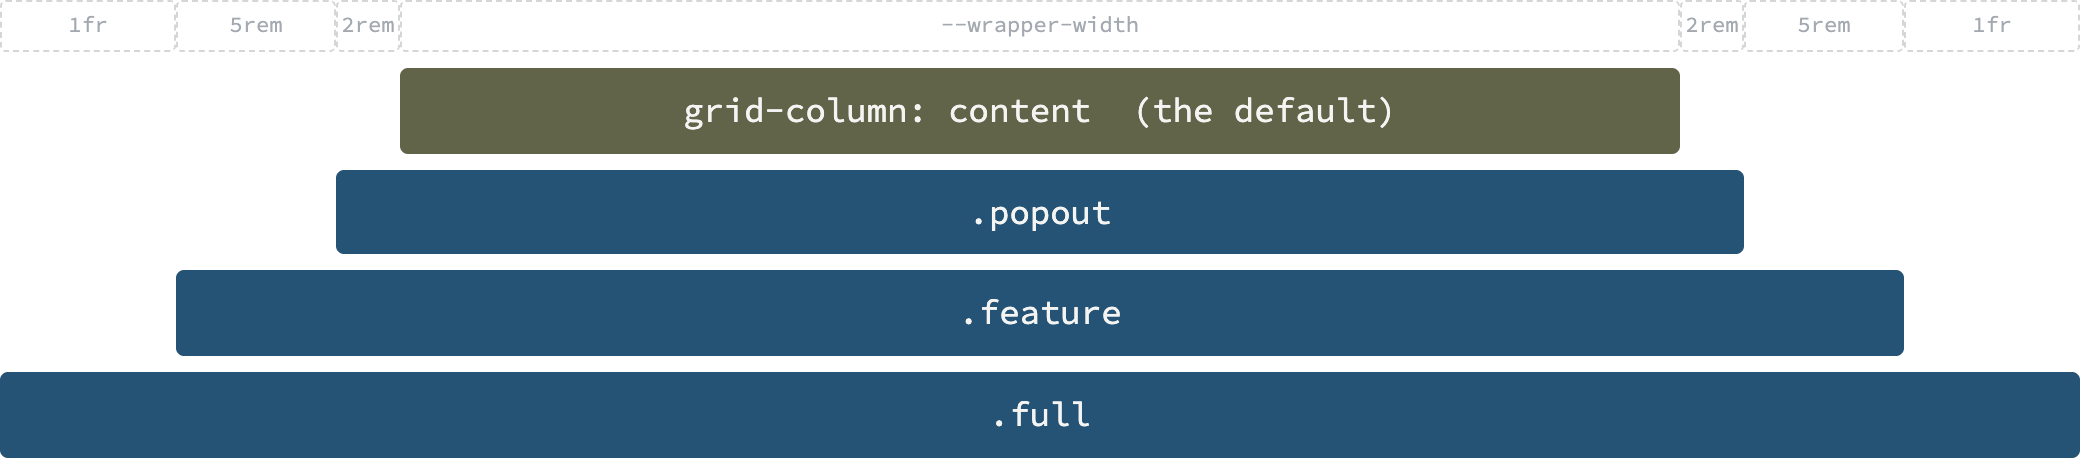
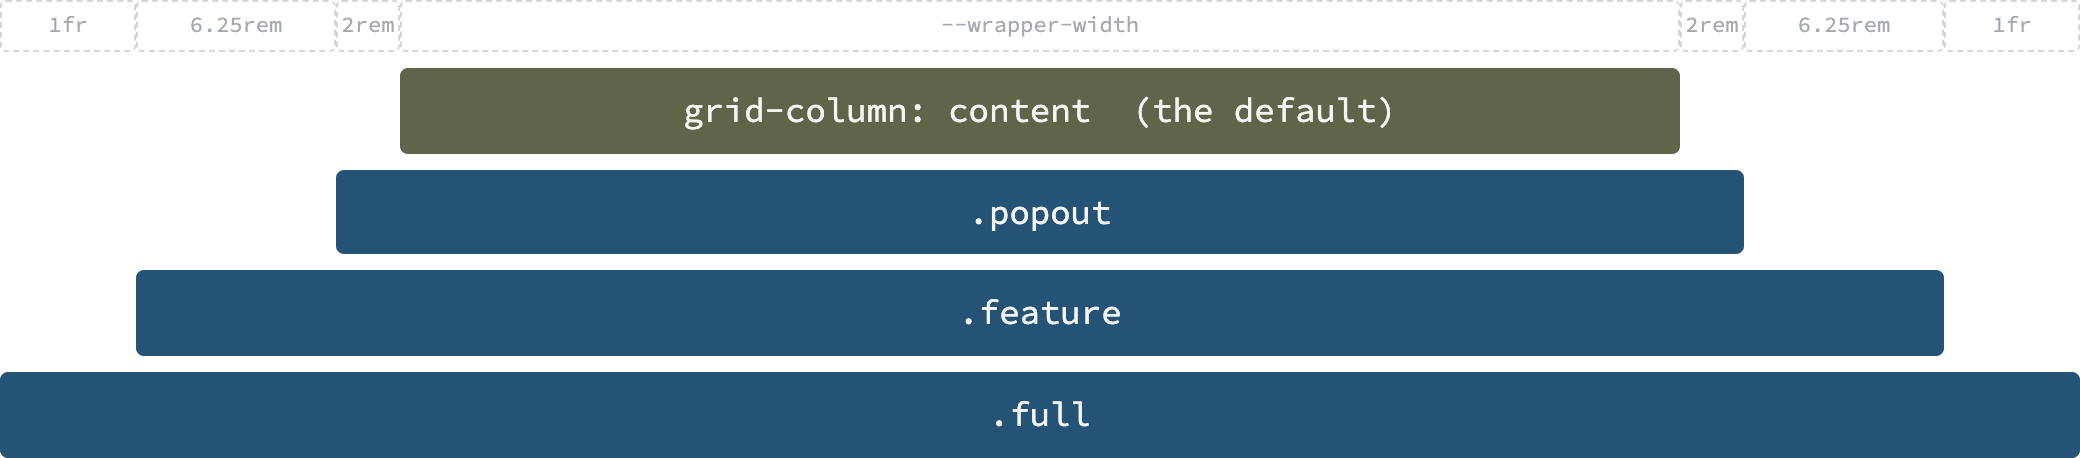
Card grid and wiki follow the 12-column grid
data-layout 33-33-33 gets an 18rem minimum: four cards of three grid columns in the 97rem wrapper. Layout breakouts wiki page and its track figure updated to 97rem / 6.25rem, with the thresholds re-measured and a section on the grid.

diff --git a/src/wiki/_sources/layout-breakouts.html b/src/wiki/_sources/layout-breakouts.html
@@ -73,7 +73,7 @@
 <div class="specimen" data-shot="layout-breakouts-tracks">
   <div class="stage">
     <div class="wrapper ruler" style="--wrapper-width: 40rem">
-      <div>1fr</div><div>5rem</div><div>2rem</div><div>--wrapper-width</div><div>2rem</div><div>5rem</div><div>1fr</div>
+      <div>1fr</div><div>6.25rem</div><div>2rem</div><div>--wrapper-width</div><div>2rem</div><div>6.25rem</div><div>1fr</div>
     </div>
     <div class="wrapper" style="--wrapper-width: 40rem">
       <div class="bar">grid-column: content &nbsp;(the default)</div>

diff --git a/src/assets/css/global/compositions/grid.css b/src/assets/css/global/compositions/grid.css
@@ -33,6 +33,11 @@ to change how empty grid tracks are handled */
   --grid-min-item-size: clamp(16rem, 50vw, 28rem);
 }
 
+/* 18rem gives 4 columns of 3 grid columns each in the 97rem wrapper; ⚠ retune if --wrapper-width changes. */
+.grid[data-layout='33-33-33'] {
+  --grid-min-item-size: 18rem;
+}
+
 .grid[data-layout='thirds'] {
   --grid-placement: auto-fit;
   --grid-min-item-size: clamp(16rem, 33%, 20rem);

diff --git a/src/wiki/Layout breakouts.md b/src/wiki/Layout breakouts.md
@@ -1,7 +1,7 @@
 ---
 description: "A named-column grid that lets an element step wider than the text column it sits in, and the direct-child constraint that makes it awkward in practice."
 date: 2026-08-23
-updated: 2026-10-02
+updated: 2026-10-05
 ---
 
 A reading page wants one narrow column for prose and the occasional element wider than it — a diagram, a code block, a full-bleed image. The old way was negative margins, which fight the page's own padding and break at small widths.
@@ -14,7 +14,7 @@ The current technique is [Ryan Mulligan's layout breakouts](https://ryanmulligan
   --full: minmax(var(--gap), 1fr);
   --content: min(var(--wrapper-width, 85rem), 100% - var(--gap) * 2);
   --popout: minmax(0, 2rem);
-  --feature: minmax(0, 5rem);
+  --feature: minmax(0, 6.25rem);
 
   display: grid;
   grid-template-columns:
@@ -34,7 +34,7 @@ The current technique is [Ryan Mulligan's layout breakouts](https://ryanmulligan
 ```
 
 <figure class="popout" data-wiki-mockup>
-  <img eleventy:formats="webp,png" src="/assets/images/wiki/layout-breakouts-tracks.png" alt="A diagram of the seven grid tracks in a row, labeled from the outside in: 1fr, 5rem, 2rem, --wrapper-width, 2rem, 5rem, 1fr. Below them four stacked bars of increasing width, each centered. The narrowest is dark and labeled &quot;grid-column: content (the default)&quot;. The three wider ones are orange and labeled .popout, .feature and .full, each reaching one track further out on both sides." width="2080" height="458">
+  <img eleventy:formats="webp,png" src="/assets/images/wiki/layout-breakouts-tracks.png" alt="A diagram of the seven grid tracks in a row, labeled from the outside in: 1fr, 6.25rem, 2rem, --wrapper-width, 2rem, 6.25rem, 1fr. Below them four stacked bars of increasing width, each centered. The narrowest is dark and labeled &quot;grid-column: content (the default)&quot;. The three wider ones are orange and labeled .popout, .feature and .full, each reaching one track further out on both sides." width="2080" height="458">
   <figcaption>The seven tracks, and the four spans available across them. Every bar is a real grid item in a real <code>.wrapper</code> — nothing here is positioned, and no bar knows how wide it is.</figcaption>
 </figure>
 
@@ -53,29 +53,39 @@ Two details do most of the work. The `[name-start]` / `[name-end]` line names me
 
 The technique has a second way to go quietly wrong, and it is the opposite shape of the first. Here the class is on the right element, it is a direct grid child, and it still does nothing — on most screens.
 
-The outer tracks are sized `minmax(0, 2rem)` and `minmax(0, 5rem)`: a **zero** minimum and a fixed maximum. The content track, meanwhile, is `min(--wrapper-width, 100% - gap * 2)`, so below a certain width it grows with the container and takes all the space there is. Only once the container is wide enough for `--wrapper-width` to win that `min()` does any free space appear for the outer tracks to grow into. The threshold is exactly `--wrapper-width + 2 × --gap`, and **below it every breakout class renders at content width** — identical to no class at all.
+The outer tracks are sized `minmax(0, 2rem)` and `minmax(0, 6.25rem)`: a **zero** minimum and a fixed maximum. The content track, meanwhile, is `min(--wrapper-width, 100% - gap * 2)`, so below a certain width it grows with the container and takes all the space there is. Only once the container is wide enough for `--wrapper-width` to win that `min()` does any free space appear for the outer tracks to grow into. The threshold is exactly `--wrapper-width + 2 × --gap`, and **below it every breakout class renders at content width** — identical to no class at all.
 
 Past the threshold the free space is handed to the four growable inner tracks in step, so `.popout` reaches its full `2rem` a further `4 × 2rem = 128px` up, and `.feature` keeps growing after that. Measured against the stylesheet, at a viewport wide enough to pin `--gap` at its `3rem` maximum:
 
 | `--wrapper-width` | container | content column | `.popout` − content |
 | --- | --- | --- | --- |
-| 85rem | 1400 | 1304 | 0 |
-| 85rem | 1456 | 1360 | 0 |
-| 85rem | 1500 | 1360 | 22 |
-| 85rem | 1585 | 1360 | 64 |
+| 97rem | 1600 | 1504 | 0 |
+| 97rem | 1648 | 1552 | 0 |
+| 97rem | 1700 | 1552 | 26 |
+| 97rem | 1776 | 1552 | 64 |
 | 64rem | 1120 | 1024 | 0 |
 | 64rem | 1160 | 1024 | 20 |
 | 64rem | 1249 | 1024 | 64 |
 
-The practical consequence: **the wider you set `--wrapper-width`, the further off-screen you push your own breakouts.** At `64rem` the popout is live from 1120px, an ordinary laptop. At `85rem` it stays dead until 1456px and only reaches full width at 1585px — so on a 1440px laptop it is invisible, and on an external display it suddenly makes the element 4rem wider than the widest text on the page. A breakout in a wide container is therefore not a subtler version of a breakout in a narrow one; it is a class that does nothing most of the time and something unintended the rest.
+The practical consequence: **the wider you set `--wrapper-width`, the further off-screen you push your own breakouts.** At `64rem` the popout is live from 1120px, an ordinary laptop. At `97rem` it stays dead until 1648px and only reaches full width at 1776px — so on a 1440px laptop it is invisible, and on an external display it suddenly makes the element 4rem wider than the widest text on the page. A breakout in a wide container is therefore not a subtler version of a breakout in a narrow one; it is a class that does nothing most of the time and something unintended the rest.
 
 Which says what the classes are actually for: stepping out of a **reading measure**. A container already sized for a wide layout has nothing to break out of, and the right answer there is the content column itself.
 
 ## In jedee
 
-`src/assets/css/global/compositions/wrapper.css` is Eleventy Excellent stock, Ryan Mulligan's technique credited in the file. `--wrapper-width` defaults to `85rem` (`variables.css`) and `.prose` narrows it to `64rem`, so a post body's content column is the narrow one while the breakouts stay measured from it. That is a composition knob in the [[Configuring a layout composition]] sense — a block sets `--wrapper-width` rather than redeclaring `grid-template-columns`.
+`src/assets/css/global/compositions/wrapper.css` is Eleventy Excellent stock, Ryan Mulligan's technique credited in the file. `--wrapper-width` is `97rem` (`variables.css`, raised from EE's `85rem` — see the grid section below) and `.prose` narrows it to `64rem`, so a post body's content column is the narrow one while the breakouts stay measured from it. That is a composition knob in the [[Configuring a layout composition]] sense — a block sets `--wrapper-width` rather than redeclaring `grid-template-columns`.
 
 `.prose-wrapper`, which sets the same `64rem`, is EE stock that nothing in jedee uses: `.prose` does the job on the same element. One more entry for [[What jedee kept from Eleventy Excellent]]'s list of machinery left behind.
+
+### The 12-column grid
+
+The Penpot layout grid is 12 columns of 100px with 32px gutters, 1552px in all, and the wrapper is sized to match it: `--wrapper-width: 97rem`, raised from EE's `85rem` on 2026-10-05. The prose widths already sat on that grid. The prose column (`64rem`, 1024px) is exactly columns 3–10, and `.popout` adds one 32px gutter on each side. `.feature` was moved from `5rem` to `6.25rem` so that a prose feature spans columns 2–11 (1288px) instead of stopping halfway into a column.
+
+⚠ The breakout offsets are shared by both wrapper widths, so only the prose breakouts land on the grid. In the 97rem wrapper a `.feature` would reach 1752px, outside the grid altogether — one more reason the classes belong to prose.
+
+The card listings follow the same grid through `.grid`'s `data-layout` variants (`compositions/grid.css`). At 1552px, `33-33-33` gives four cards of three grid columns each, from an `18rem` minimum that is just too wide for a fifth. `50-50` gives three cards of four columns each, and a two-item `50-50` or `thirds` listing stretches to two cards of six columns each. The grid gap is `--space-s-m`, 31px at its maximum against Penpot's 32, so each card is about a pixel off the guide.
+
+⚠ None of those variants applied between 2026-09-06 and 2026-10-05. Removing the masonry script left `custom-masonry.webc` with `webc:root webc:keep` on a tag of its own name, which WebC renders as the tag nested inside itself. The outer copy had no `data-layout`, so every listing was squeezed into its first 16rem column. `webc:root="override"` renders it once.
 
 ### Four ways around the direct-child rule
 
@@ -107,7 +117,7 @@ The pattern across all four: find the element that is genuinely the direct child
 
 On 2026-09-19 the second failure mode above turned up in three places. `.prose` narrows `--wrapper-width` to `64rem`, but only when it is on the `.wrapper` element itself — the post layouts all do that, so their content column is 1024 and `.popout` is 1088. `partials/archive-listing.njk` puts `.prose` on a *child* instead (it is the intro paragraph's class, not the page's), so custom-property inheritance never reaches the grid and the archive wrapper stays at the stock `85rem`. Its content column is 1360, and the `.popout` on `/activities/`'s map-and-table block measured 1424 — wider than every line of prose on the page, and 161px short of the `.full` header it looked like it was competing with. Two styleguide tables had the same class in the same wide wrapper.
 
-All three had the class removed rather than the wrapper narrowed; 1360 is the width that page is designed at. The interesting part is the reporting: the misuse had been shipping for a while and was only visible above 1456px, so it took a wide display to see it at all. Every remaining `.popout` in the site is in a layout with `.prose` on the wrapper — the post types, the wiki, and the wiki's own figures — which is the rule the class is worth holding to.
+All three had the class removed rather than the wrapper narrowed; 1360 was the width that page was designed at (1552 since 2026-10-05). The interesting part is the reporting: the misuse had been shipping for a while and was only visible above 1456px, so it took a wide display to see it at all. Every remaining `.popout` in the site is in a layout with `.prose` on the wrapper — the post types, the wiki, and the wiki's own figures — which is the rule the class is worth holding to.
 
 One thing the removal disturbed, and a correction worth recording with it. `--table-edge-padding` (see [[Tables]]) is `var(--space-m-l)`, 31px at its maximum, applied as `padding-inline-start` to a table's caption and first column, and it is tuned against the `2rem` popout track: at popout width the table's box starts 32px outside the content column and that 31px puts the first column's text back on the content line. Two comments in `table.css` said so, and removing the breakout from the activities table looked at first like it had made them stale.
 
